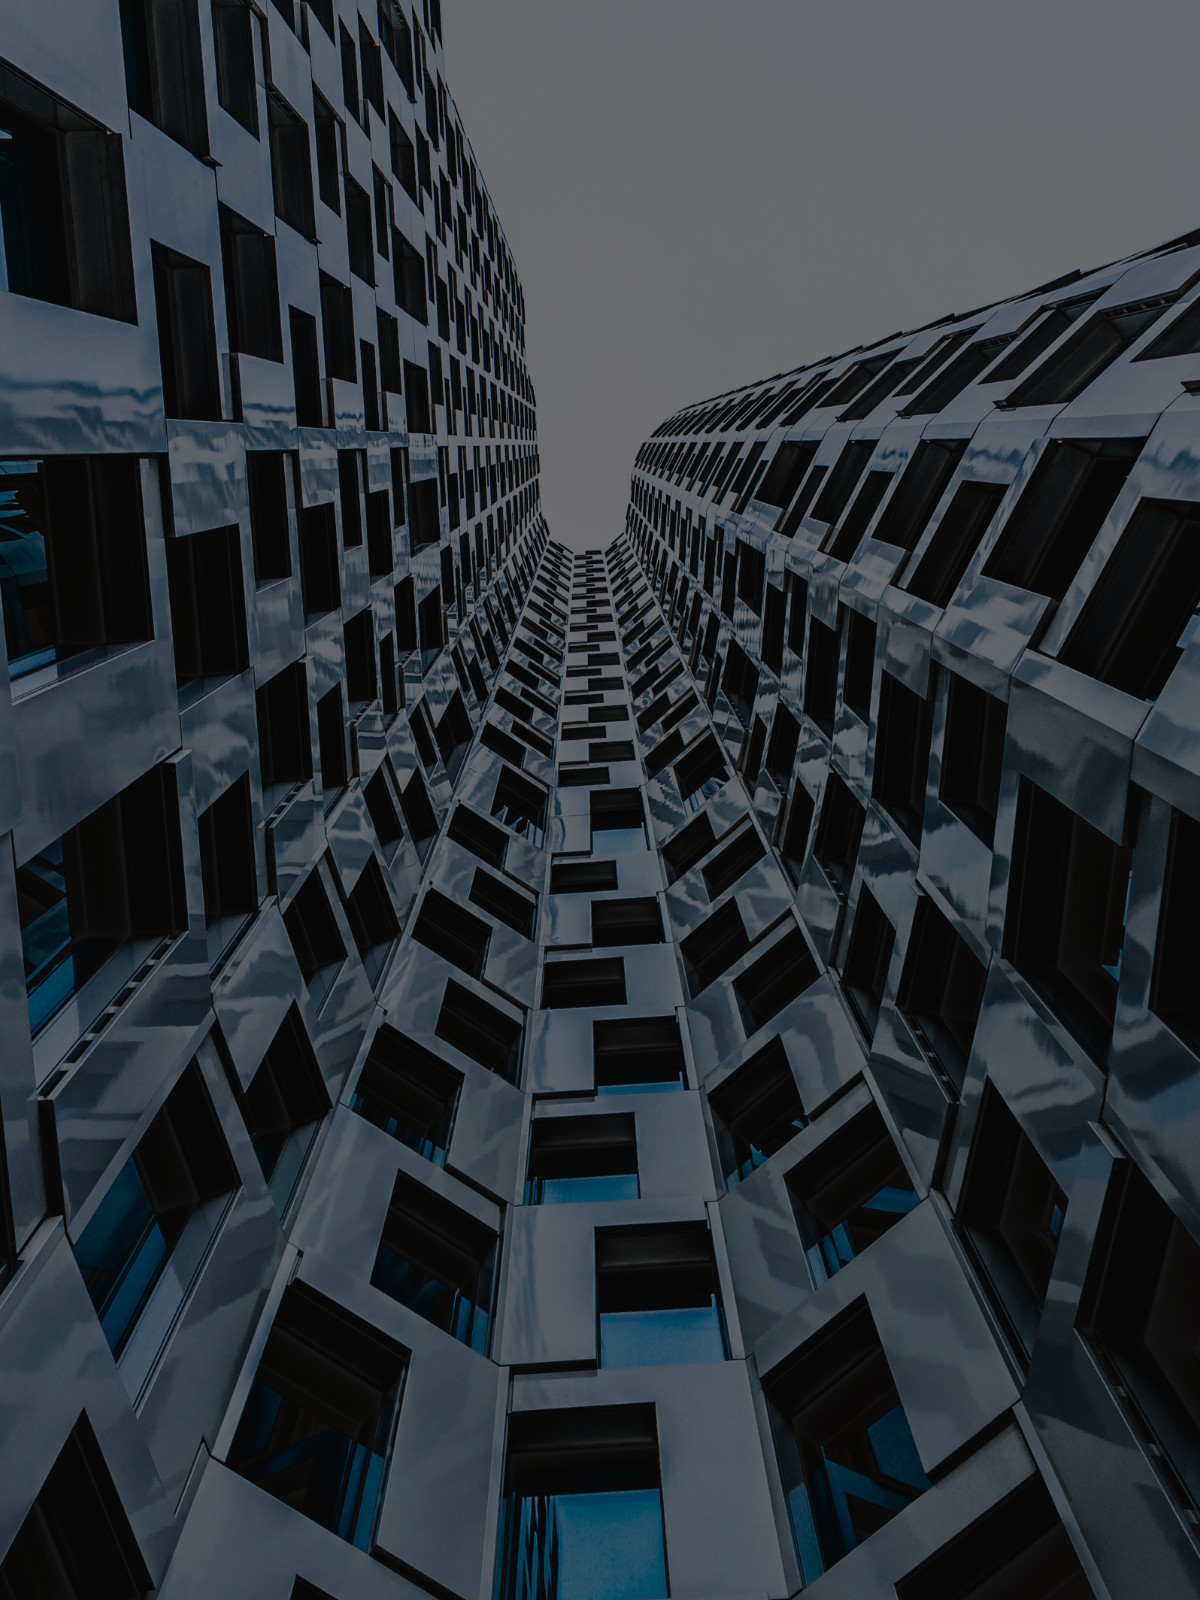
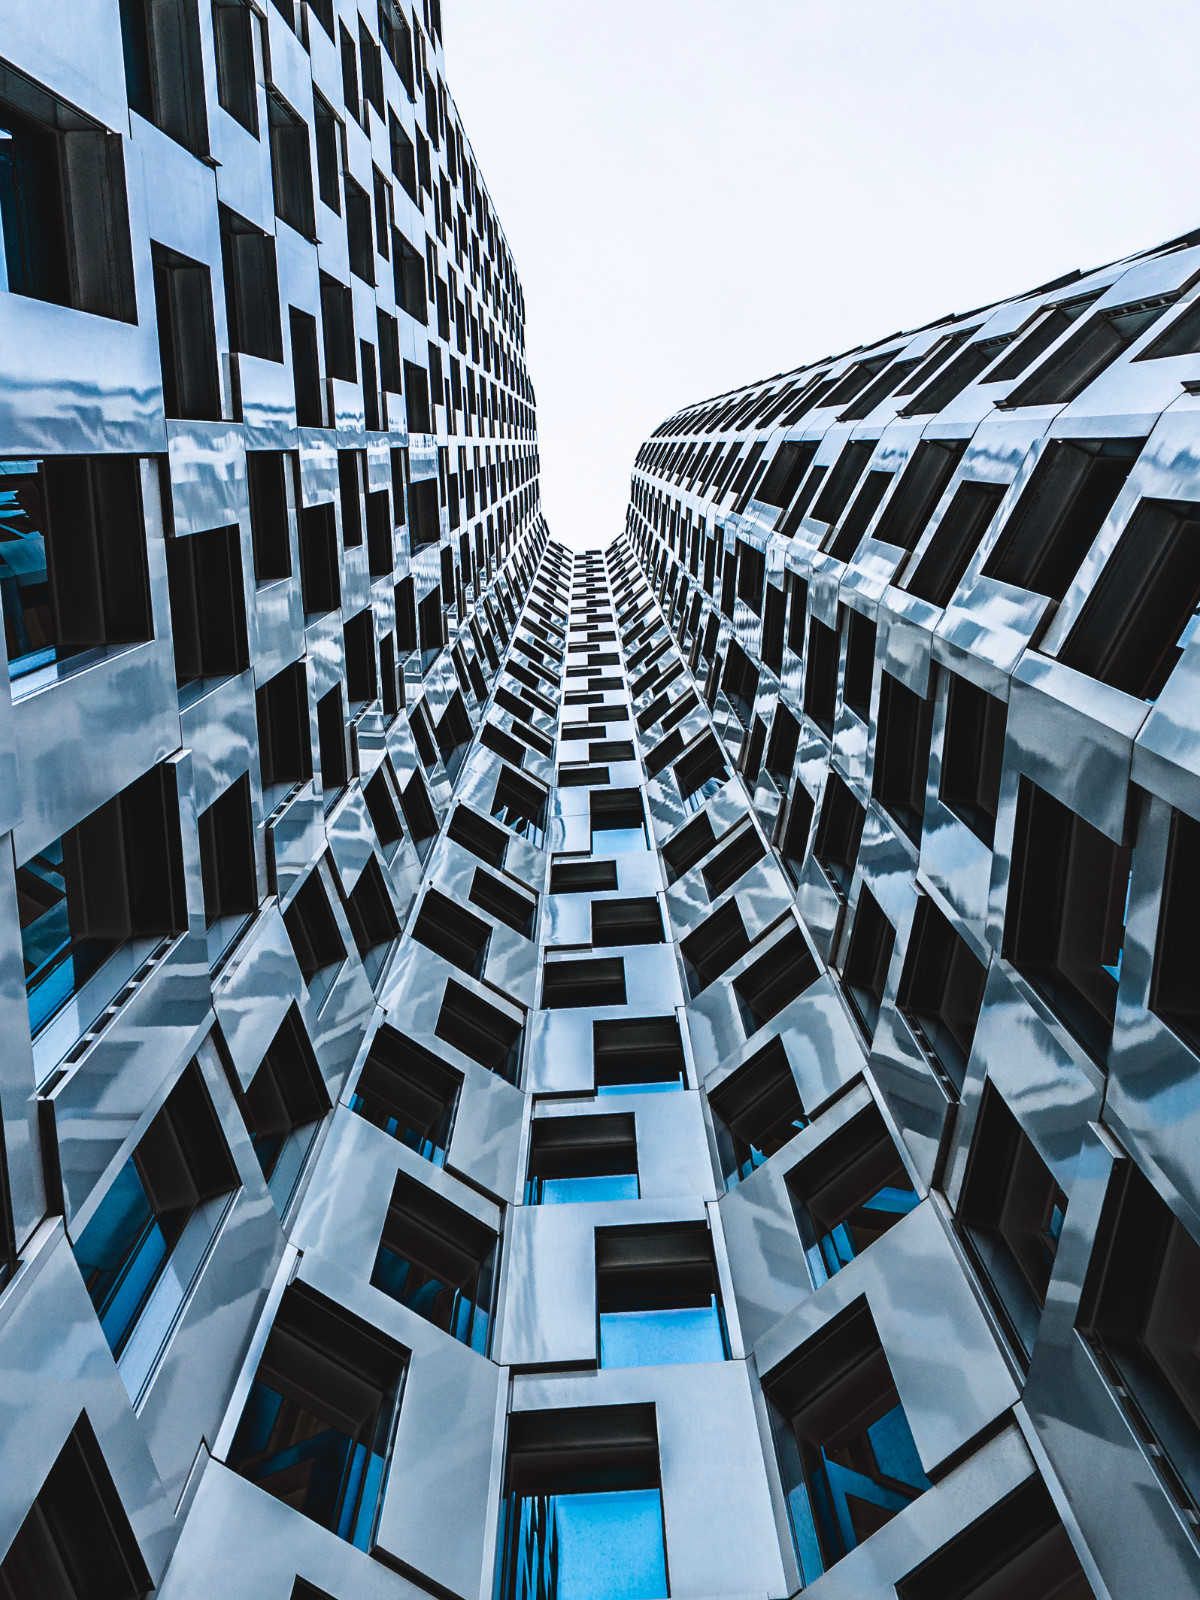
Light and Dark mode
Create image overlay in css and support light and dark mode in WebKit

diff --git a/index.html b/index.html
@@ -4,8 +4,17 @@
 
 :root {
     color-scheme: light dark;
-    --light: white;
-    --dark: black;
+    --light: black;
+    --dark: white;
+    --overlay-opacity: 0.75;
+}
+
+@media (prefers-color-scheme: dark) {
+    :root {
+        --light: white;
+        --dark: black;
+        --overlay-opacity: 0.4;
+    }
 }
 
 html {
@@ -14,11 +23,20 @@ html {
 
 body {
     background-image: url('background.jpg');
-    background-color: rgba(var(--dark), 0.2);
-    background-blend-mode: overlay;
     background-repeat: no-repeat;
     background-attachment: fixed;
     background-position: center;
+}
+
+body.parent:before {
+    content: "";
+    width: 100vw;
+    height: 100vh;
+    background: var(--dark);
+    position: absolute;
+    left: 0;
+    top: 0;
+    opacity: var(--overlay-opacity);
 }
 
 .parent {
@@ -71,17 +89,20 @@ a:active {
 <body class="parent">
     <div class="child">
         <img src="header.jpg" style="width: 400px; height: 300px; border-radius: 25px;"/>
-        <h1>Benjamin Herzog</h1>
-        <p><i>Software Engineer based in Berlin, Germany.</i></p>
-        <p>
-        I currently work at <a href="https://apple.com">Apple</a> on the <a href="https://developer.apple.com">Xcode</a> Build System.<br>
-        Before that, I worked at <a href="https://lovoo.com">LOVOO</a> on the iOS app.<br>
-        I have a Master of Science in CS from the <a href="https://htw-dresden.de">HTW Dresden</a>.<br>
-        Check out my <a href="https://blog.benchr.de/cv.pdf">CV</a> for all information about my career.<br>
-        <br>
-        Feel free to contact me via <a href="mailto:mail@contact.benchr.de">e-mail</a>, <a href="https://twitter.com/BenchR">Twitter</a>, <a href="https://github.com/BenchR267">Github</a>, <a href="https://instagram.com/BenchR">Instagram</a> or <a href="http://linkedin.com/in/benchr267">LinkedIn</a>.<br>
-        If you're interested in my photography work, please check out my <a href="https://photo.benchr.de">portfolio</a>.
-        </p>
+        
+        <div>
+            <h1>Benjamin Herzog</h1>
+            <p><i>Software Engineer based in Berlin, Germany.</i></p>
+            <p>
+            I currently work at <a href="https://apple.com">Apple</a> on <a href="https://developer.apple.com">Xcode</a>.<br>
+            Previously I worked on the <a href="https://lovoo.com">LOVOO</a> iOS app.<br>
+            I have a master's degree in CS from the <a href="https://htw-dresden.de">HTW Dresden</a>.<br>
+            Check out my <a href="https://blog.benchr.de/cv.pdf">CV</a> for all information about my career.<br>
+            <br>
+            Feel free to contact me via <a href="mailto:mail@contact.benchr.de">e-mail</a>, <a href="https://twitter.com/BenchR">Twitter</a>, <a href="https://github.com/BenchR267">Github</a>, <a href="https://instagram.com/BenchR">Instagram</a> or <a href="http://linkedin.com/in/benchr267">LinkedIn</a>.<br>
+            If you're interested in my photography work, please check out my <a href="https://photo.benchr.de">portfolio</a>.
+            </p>
+        </div>
     </div>
 </body>
 </html>
